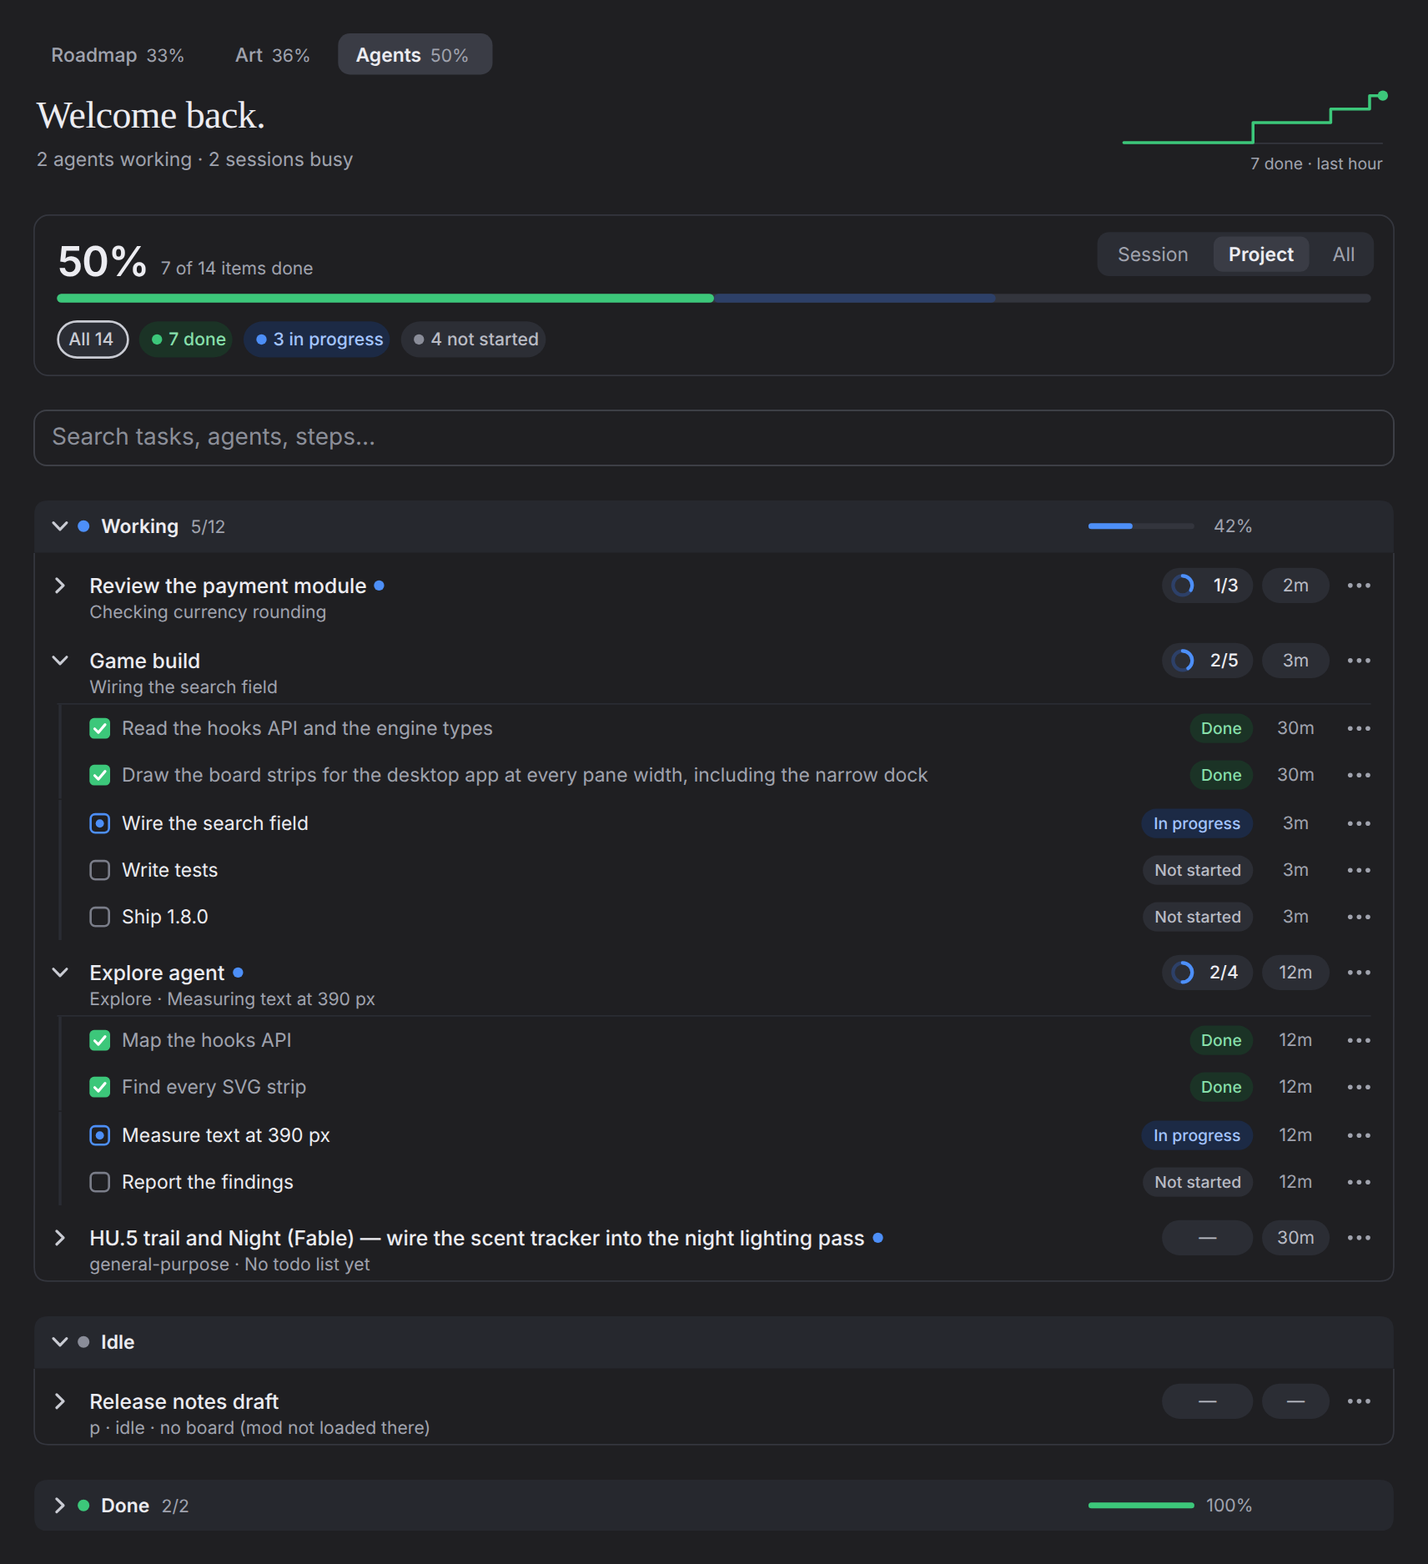
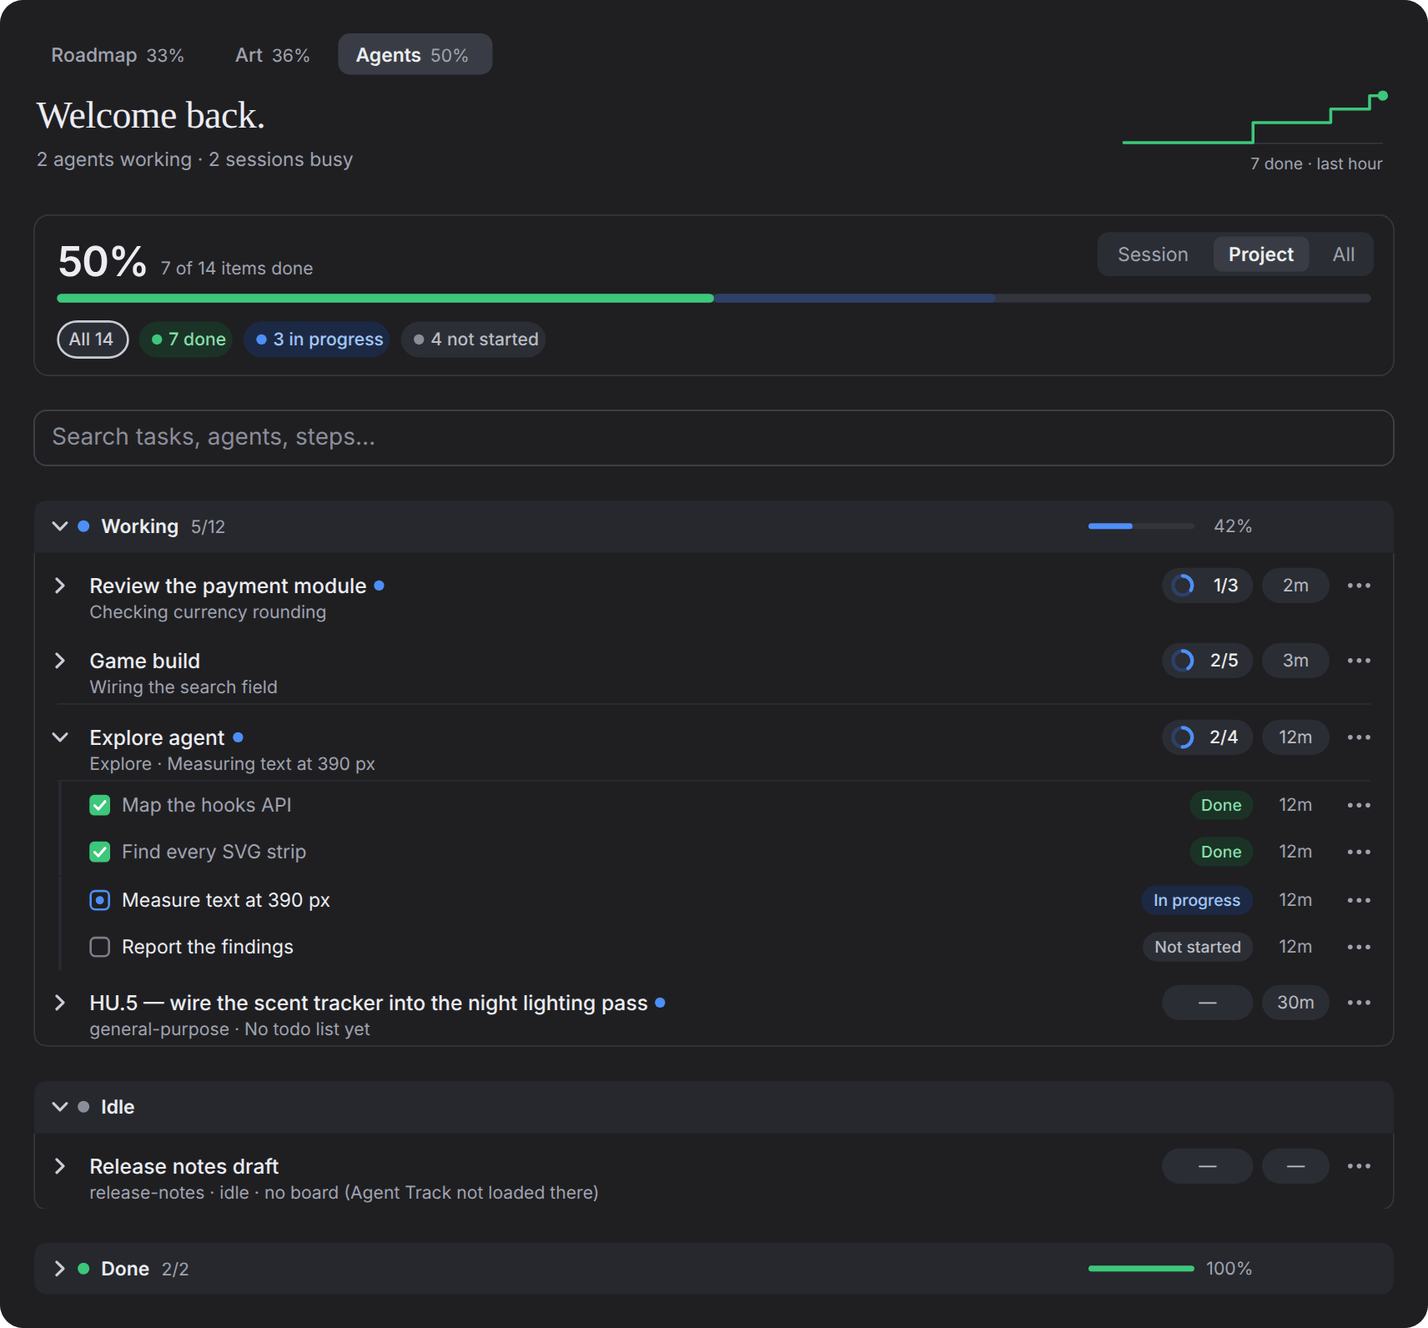
README: product page, reviewed; clearer note for sessions without Agent Track
Applies the critic's review: install moved up, a shorter hero, accurate
privacy, opening and checklist rules, an excerpt that matches its
screenshot, troubleshooting, and compressed light/dark images. The row of
a session without Agent Track now says "Agent Track not loaded there",
as /agent-track sessions does.

Claude-Session: https://claude.ai/code/session_01CMsQzkEYEouXAutz9NCWdL

diff --git a/tests/board.test.tsx b/tests/board.test.tsx
@@ -132,7 +132,7 @@ describe('board model', () => {
     ])
     expect(merged.categories.map(c => c.title)).toEqual(['Game build', 'Docs'])
     expect(merged.categories[0]?.tasks.length).toBe(1)
-    expect(merged.categories[1]?.note).toBe('docs · idle · no board (mod not loaded there)')
+    expect(merged.categories[1]?.note).toBe('docs · idle · no board (Agent Track not loaded there)')
     expect(grouped(merged).find(s => s.id === 'working')?.categories[0]?.title).toBe('Game build')
   })
 })

diff --git a/hooks/board.ts b/hooks/board.ts
@@ -298,7 +298,7 @@ export const mergePeers = (local: Board, selfName: string, peers: readonly Peer[
         startedAt: peer.updatedAt,
         updatedAt: peer.updatedAt,
         tasks: [],
-        note: `${where} · ${peer.isRunning ? peer.status : 'closed'} · no board (mod not loaded there)`,
+        note: `${where} · ${peer.isRunning ? peer.status : 'closed'} · no board (Agent Track not loaded there)`,
       },
     ]
   })

diff --git a/README.md b/README.md
@@ -5,11 +5,11 @@
 **A live progress board for Claude Code.**<br>
 Every session, subagent, todo list and project checklist on one board, updating as the work happens,<br>in the Claude desktop app and in the terminal.
 
-[![Version](https://img.shields.io/badge/dynamic/json?url=https%3A%2F%2Fraw.githubusercontent.com%2FAdhamura%2FAgentTrack%2Fmain%2F.claude-plugin%2Fplugin.json&query=%24.version&label=version&color=1f6ff5)](.claude-plugin/plugin.json)
+[![Version](https://img.shields.io/badge/dynamic/json?url=https%3A%2F%2Fraw.githubusercontent.com%2FAdhamura%2FAgentTrack%2Fmain%2F.claude-plugin%2Fplugin.json&query=%24.version&label=version&color=1f6ff5&cacheSeconds=3600)](https://github.com/Adhamura/AgentTrack/commits/main)
 [![License: MIT](https://img.shields.io/badge/license-MIT-2fb36a)](LICENSE)
 [![Claude Code ≥ 2.1.285](https://img.shields.io/badge/Claude%20Code-%E2%89%A5%202.1.285-d97757)](#requirements)
 
-[Quick start](#quick-start) · [Usage](#usage) · [Project checklists](#project-checklists) · [Configuration](#configuration) · [FAQ](#troubleshooting)
+[Quick start](#quick-start) · [Usage](#usage) · [Project checklists](#project-checklists) · [Configuration](#configuration) · [Troubleshooting](#troubleshooting)
 
 </div>
 
@@ -18,60 +18,11 @@ Every session, subagent, todo list and project checklist on one board, updating 
 <picture>
   <source media="(prefers-color-scheme: dark)" srcset="docs/agents-dark.png">
   <source media="(prefers-color-scheme: light)" srcset="docs/agents.png">
-  <img alt="The Agents tab of Agent Track in the Claude desktop app: a 50% summary with filters, a Session / Project / All switch, a search field, and Working, Idle and Done sections with each agent's todo list" src="docs/agents.png">
+  <img alt="The Agents tab of Agent Track in the Claude desktop app: a 50% summary with filters, a Session / Project / All switch, a search field, and Working, Idle and Done sections with each agent's todo list" src="docs/agents.png" width="880">
 </picture>
 
 > [!NOTE]
 > Agent Track is a **mod**: a Claude Code plugin made of function hooks. Mods are an early-access Claude Code feature and may change between releases.
-
-## Why
-
-Claude Code is happiest running several things at once: a main session, a few subagents, maybe a second session in a worktree. Their todo lists live in separate transcripts, and a subagent without a todo list shows nothing at all. Agent Track gathers all of it on one board, so you can see at a glance what is running, what is next and what is done, without scrolling back through any of them.
-
-## Features
-
-<table>
-<tr>
-<td width="50%" valign="top">
-<b>Every agent, one board</b><br>
-One row per session and subagent: its title, what it is doing right now, a progress ring with done/total, and when it last changed. A subagent gets its row within seconds of starting, todo list or not.
-</td>
-<td width="50%" valign="top">
-<b>This session, this project, or all</b><br>
-A switch picks the scope. <b>Project</b> (the default) covers every session in this folder, a folder inside it or one of its worktrees. Sessions sync live, on your machine.
-</td>
-</tr>
-<tr>
-<td width="50%" valign="top">
-<b>Project checklists as tabs</b><br>
-Any Markdown file with <code>- [ ]</code> boxes, such as a roadmap or an asset list, becomes a tab with sections, groups, progress rings and part columns. It refreshes when the file changes.
-</td>
-<td width="50%" valign="top">
-<b>Live matching</b><br>
-An open checklist item shows <i>In progress</i> while a running agent or todo item names the same work.
-</td>
-</tr>
-<tr>
-<td width="50%" valign="top">
-<b>Search and filters</b><br>
-Filter any tab by status with one press, or search titles, steps, agent types and details as you type.
-</td>
-<td width="50%" valign="top">
-<b>Desktop and terminal</b><br>
-The desktop app gets a drawn board that fits the pane's width and follows the light or dark theme. The terminal gets the same layout in text and color.
-</td>
-</tr>
-<tr>
-<td width="50%" valign="top">
-<b>One-click updates</b><br>
-<b>↻ Check updates</b> refreshes the marketplace, updates the plugin and reloads it in the same session.
-</td>
-<td width="50%" valign="top">
-<b>Private by design</b><br>
-Nothing leaves your machine. Boards are small JSON files under <code>~/.claude/agent-track/</code>.
-</td>
-</tr>
-</table>
 
 ## Quick start
 
@@ -82,7 +33,7 @@ In Claude Code:
 /plugin install agent-track@agent-track
 ```
 
-That's it. The board opens by itself the first time an agent writes a todo list or a subagent starts. **▦ Progress** above the message box, or `/agent-track`, shows or hides it at any time.
+The board opens by itself the first time an agent writes a todo list or a subagent starts (or right away, if the project has [checklist tabs](#project-checklists)). **▦ Progress** above the message box, or `/agent-track`, shows or hides it at any time. If the board doesn't appear, run `/reload-plugins` or start a new session.
 
 ### Requirements
 
@@ -94,14 +45,12 @@ That's it. The board opens by itself the first time an agent writes a todo list 
 
 <br>
 
-**From a local copy.** Unzip a release and point the marketplace at that folder:
+**From a local copy.** Clone the repository (or **Code → Download ZIP** and unzip it) and point the marketplace at that folder:
 
 ```
 /plugin marketplace add C:\path\to\agent-track
 /plugin install agent-track@agent-track
 ```
-
-A marketplace added from a local folder updates only from that folder.
 
 **For one session only:**
 
@@ -124,13 +73,62 @@ Settings are read when a session starts, so reopen sessions that were already ru
 
 </details>
 
+## Why
+
+Claude Code often runs several things at once: a main session, a few subagents, maybe a second session in a worktree. Their todo lists live in separate transcripts, and a subagent without a todo list shows nothing at all. Agent Track gathers all of it on one board, so you can see at a glance what is running, what is next and what is done, without scrolling back through any of them.
+
+## Features
+
+<table>
+<tr>
+<td width="50%" valign="top">
+<b>Every agent, one board</b><br>
+One row per session and subagent: its title, what it is doing right now, a progress ring with done/total, and when it last changed. A subagent gets its row within seconds of starting, todo list or not.
+</td>
+<td width="50%" valign="top">
+<b>This session, this project, or all</b><br>
+A switch picks the scope. <b>Project</b> (the default) covers every session in this folder, a folder inside it or one of its worktrees. Sessions sync live, on your machine.
+</td>
+</tr>
+<tr>
+<td width="50%" valign="top">
+<b>Project checklists as tabs</b><br>
+Any Markdown file with <code>- [ ]</code> boxes under <code>##</code> headings, such as a roadmap or an asset list, becomes a tab with sections, groups, progress rings and part columns. It refreshes when the file changes.
+</td>
+<td width="50%" valign="top">
+<b>Live matching</b><br>
+An open checklist item shows <i>In progress</i> while a running agent or todo item names the same work.
+</td>
+</tr>
+<tr>
+<td width="50%" valign="top">
+<b>Search and filters</b><br>
+Filter any tab by status, or search it as you type.
+</td>
+<td width="50%" valign="top">
+<b>Desktop and terminal</b><br>
+The desktop app gets a drawn board that fits the pane's width and follows the light or dark theme. The terminal gets the same layout in text and color.
+</td>
+</tr>
+<tr>
+<td width="50%" valign="top">
+<b>One-click updates</b><br>
+<b>↻ Check updates</b> refreshes the marketplace, updates the plugin and reloads it in the same session.
+</td>
+<td width="50%" valign="top">
+<b>Private by design</b><br>
+Your boards never leave your machine: they are small JSON files under <code>~/.claude/agent-track/</code>. The only network use is <b>↻ Check updates</b>, which asks Claude Code to fetch the marketplace.
+</td>
+</tr>
+</table>
+
 ## Usage
 
 ### The board
 
 The board is one pane with a tab per project checklist and **Agents** always last. Click a tab to switch.
 
-- **Opening.** The board opens by itself the first time an agent writes a todo list or a subagent starts. In the terminal it opens by itself only in windows at least 144 columns wide; `/agent-track` opens it at any size. If you close it, it stops opening by itself until you open it again.
+- **Opening.** The board opens by itself when a session starts in a project with checklist tabs, and the first time an agent writes a todo list or a subagent starts. In the terminal it opens by itself only in windows at least 144 columns wide (110 once you have opened it yourself); `/agent-track` opens it at any size. If you close it, it stops opening by itself until you open it again.
 - **▦ Progress** sits just above the message box with each tab's live percent. Press it to show or hide the board.
 - **Summary.** The overall percent, a progress bar, and how many tasks are completed, in progress and not started. On the desktop, the header also charts what got done recently (the last hour on Agents, the last 7 days on a checklist), and Agents greets you by [name](#settings).
 - **Filters.** The summary's pills are filters: press one to show only those tasks, or **All** to see everything again.
@@ -146,7 +144,7 @@ The terminal gets the same board in text and color: tabs, summary, scope switch,
 
 ### Search
 
-A search field under each tab's summary filters the tab as you type and highlights what it found. It searches titles, steps, agent types, task descriptions and checklist details. Every word must be found, in any case, and words may span a section, a group and an item (`keys second`). **✕** clears it.
+A search field under each tab's summary filters the tab as you type and highlights what it found. It searches titles, steps, agent types, task descriptions and checklist details. Every word must be found, in any case, and words may span a section, a group and an item (`chapel alms`). **✕** clears it.
 
 ### Session scope
 
@@ -164,6 +162,8 @@ Each session running Agent Track publishes its board. Sessions without it still 
 
 **↻ Check updates**, next to ▦ Progress, refreshes the marketplace Agent Track was installed from and updates the plugin when that marketplace offers a newer version. After an update it runs `/reload-plugins` itself as soon as Claude is idle, so the new version loads in the same session, and an open board is drawn again by the new version. It runs the `claude` command line, so `claude` must be on your `PATH`.
 
+A marketplace added from a local folder updates only from that folder. Installed from a folder (`--plugin-dir` or `CLAUDE_CODE_PLUGIN_DIRS`)? Check updates can't update it: pull or replace that folder instead.
+
 ### Subagents without a todo tool
 
 Agents that have no built-in todo tool (for example subagents in the desktop app) get one from Agent Track: `mcp__agent-track__todo`. Ask them to use it, or say so in your `CLAUDE.md`, and their tasks show up on the board.
@@ -174,10 +174,12 @@ Agents that have no built-in todo tool (for example subagents in the desktop app
 | --- | --- |
 | `/agent-track` | Shows or hides the board, at any window size. |
 | `/agent-track update` | Same as **↻ Check updates**. |
-| `/agent-track sessions` | Lists every session Agent Track sees: where it works, whether it publishes a board, and whether the board shows it now. |
+| `/agent-track sessions` | Lists every session Agent Track sees: where it works, whether it publishes a board, and whether the board shows it now. Start here when a session is missing. |
 | `/agent-track reload` | Re-reads the list of tabs from `.claude/agent-track.json` and shows the board. |
 
 The desktop app may not list `/agent-track` in its suggestions; type the whole command.
+
+<a id="project-tabs"></a>
 
 ## Project checklists
 
@@ -194,27 +196,28 @@ For example, an excerpt of `docs/art-progress.md`:
 - [x] cg-bell-tower — dressed (4 props), art
 - [ ] cg-alms-vault — not dressed (0 props), no art
 - [ ] cg-choir — not built, no art
-- [~] cg-sacristy — dressed (2 props), no art
+- [~] cg-sacristy-annex-lower-crypt-passage — dressed (2 props), no art
+- [ ] cg-ossuary — not dressed (0 props), no art
 
 ## Loose ends
 - [ ] Repaint the title card
 - [x] Export the palette to the engine
 ```
 
-The whole file renders as this tab: one column per part (`dressed`, `art`, `built`, `audio`), a mark per line, and each group's counts on its row.
+The full file (1.1 above, plus more groups and a second act) renders as this tab: one column per part (`dressed`, `art`, `built`, `audio`), a mark per line, and each group's counts on its row.
 
 <picture>
   <source media="(prefers-color-scheme: dark)" srcset="docs/checklist-dark.png">
   <source media="(prefers-color-scheme: light)" srcset="docs/checklist.png">
-  <img alt="A checklist tab: sections with progress bars, groups with progress rings, and dressed, art and built columns with a done or not-done mark per line" src="docs/checklist.png">
+  <img alt="A checklist tab: sections with progress bars, groups with progress rings, and dressed, art and built columns with a done or not-done mark per line" src="docs/checklist.png" width="880">
 </picture>
 
 ### How a file is read
 
-- **Structure.** The `#` heading is the title at the top of the tab (the tab's `title` when there is none). Each `##` heading is a section with its own progress bar; each `###` under it is a group with its own progress ring. Sections start open unless they are finished; groups start closed.
-- **Boxes.** `- [x]` is done, `- [ ]` is not started, and `- [~]`, `- [-]` or `- [/]` is in progress. Nested boxes count too.
+- **Structure.** The `#` heading is the title at the top of the tab (the tab's `title` when there is none). Each `##` heading is a section with its own progress bar; each `###` under it is a group with its own progress ring. **Boxes must sit under a `##` heading:** boxes before the first `##` are not shown. Sections start open unless they are finished; groups start closed.
+- **Boxes.** `- [x]` is done, `- [ ]` is not started, and `- [~]`, `- [-]` or `- [/]` is in progress. Nested boxes count too. Both `-` and `*` bullets work, and `[X]` counts as done.
 - **Names.** An item's name is its **bold** part, or its first 70 characters. Press it for the whole line.
-- **Live matching.** An open item shows *In progress* while something running in this session, or in another session in this project (unless the switch is on **Session**), names the same work: a running agent's label, or a todo item in progress. It matches by task code (`HU.5`, `W.14`) or when one title covers at least 80% of the other (character-pair similarity, no AI). Done items never change, and nothing is written back to the file.
+- **Live matching.** An open item shows *In progress* while something running in this session, or in another session in this project (unless the switch is on **Session**), names the same work: a running agent's label, or a todo item in progress. It matches by task code (`HU.5`, `W.14`) or when one title covers at least 80% of the other (character-pair similarity, no AI). Done items never change, and nothing is written back to the file. A section or group whose title names running work is marked live too.
 - **Refresh.** A tab refreshes by itself when its file changes, whether Claude or you edited it.
 
 ### Part columns
@@ -244,7 +247,7 @@ List a project's checklist files in `.claude/agent-track.json` in that project's
 | Field | What it does |
 | --- | --- |
 | `title` | The tab's label in the tab bar. |
-| `file` | The Markdown file, relative to the project folder. |
+| `file` | The Markdown file, relative to the project folder (where the session runs). |
 | `strip` | Regular expressions; text matching them is removed from every heading. |
 | `keepEmptySections` | Keeps `##` sections that have no boxes. Default `false`. |
 
@@ -256,18 +259,28 @@ After editing the list, run `/agent-track reload`.
 | --- | --- | --- |
 | `name` | The name in the greeting: "Welcome back, *name*." | empty ("Welcome back.") |
 
-Change it from Claude Code's config menu, or under `pluginConfigs` in your settings.
+Change it from Claude Code's config menu (`/config`), or in `~/.claude/settings.json`:
+
+```json
+{
+  "pluginConfigs": {
+    "agent-track@agent-track": { "options": { "name": "Kazuki" } }
+  }
+}
+```
+
+The key is the plugin's id; for a folder install (`--plugin-dir`) it is `agent-track`.
 
 ## How it works
 
 Agent Track listens to Claude Code's own events (todo writes, task tools, subagents starting and stopping, turns ending) and keeps a board for the session. Every couple of seconds each session publishes its board and reads the others', which is how the **Project** and **All** scopes see work in other sessions.
 
-**Privacy.** Agent Track never sends anything off your machine. To sync sessions it:
+**Privacy.** Your boards never leave your machine, and Agent Track makes no network calls of its own (↻ Check updates asks Claude Code to refresh the marketplace from where you installed it). To sync sessions it:
 
 - writes each session's board to `~/.claude/agent-track/<session id>.json` (task titles, statuses and times), and
 - reads Claude Code's own list of running sessions in `~/.claude/sessions/` (names, folders, busy/idle).
 
-Boards of closed sessions are ignored after 12 hours. Delete `~/.claude/agent-track/` at any time to clear them.
+Boards of closed sessions are ignored after 12 hours. Delete `~/.claude/agent-track/` at any time to clear them. (Paths are under `$CLAUDE_CONFIG_DIR` when you set it.)
 
 ## Troubleshooting
 
@@ -276,7 +289,7 @@ Boards of closed sessions are ignored after 12 hours. Delete `~/.claude/agent-tr
 
 <br>
 
-Claude Code does not refresh a marketplace you added yourself unless you turn that on, so new versions do not appear by themselves. Press **↻ Check updates** above the message box (or run `/agent-track update`), or turn on **Enable auto-update** for the marketplace under `/plugin` → **Marketplaces**. A marketplace added from a local folder updates only from that folder.
+Claude Code does not refresh a marketplace you added yourself unless you turn that on, so new versions do not appear by themselves. Press **↻ Check updates** above the message box (or run `/agent-track update`), or turn on **Enable auto-update** for the marketplace under `/plugin` → **Marketplaces**. Installed from a folder? See [Check updates](#check-updates).
 
 </details>
 
@@ -285,9 +298,9 @@ Claude Code does not refresh a marketplace you added yourself unless you turn th
 
 <br>
 
-- In the terminal it opens by itself only in windows at least 144 columns wide. Run `/agent-track` to open it at any size.
-- If you closed it, it doesn't open by itself again until you open it with **▦ Progress** or `/agent-track`.
+- See [Opening](#the-board) for when it opens by itself. `/agent-track` opens it at any size.
 - If a tab shows an error instead of the board, press **▦ Progress** twice to close and reopen it.
+- A tab that says *Can't read docs/x.md*: `file` is relative to the folder the session runs in; fix the path and run `/agent-track reload`.
 - Installed through `CLAUDE_CODE_PLUGIN_DIRS`? Settings are read when a session starts, so reopen sessions that were already running.
 
 </details>
@@ -297,10 +310,10 @@ Claude Code does not refresh a marketplace you added yourself unless you turn th
 
 <br>
 
-- Run `/agent-track sessions` to see every session Agent Track sees, where it works, whether it publishes a board and whether the board shows it now.
-- Check the scope switch: **Session** shows only this session, **Project** only sessions in this folder, its subfolders and worktrees.
+- Run `/agent-track sessions` ([Commands](#commands)).
+- Check the [scope switch](#session-scope).
 - A session's tasks appear only when Agent Track is loaded in that session too; without it the session shows only as busy or idle.
-- Subagents without a todo tool need `mcp__agent-track__todo` to show their tasks. Ask them to use it, or say so in `CLAUDE.md`.
+- A subagent with no tasks may have no todo tool: see [Subagents without a todo tool](#subagents-without-a-todo-tool).
 
 </details>
 
